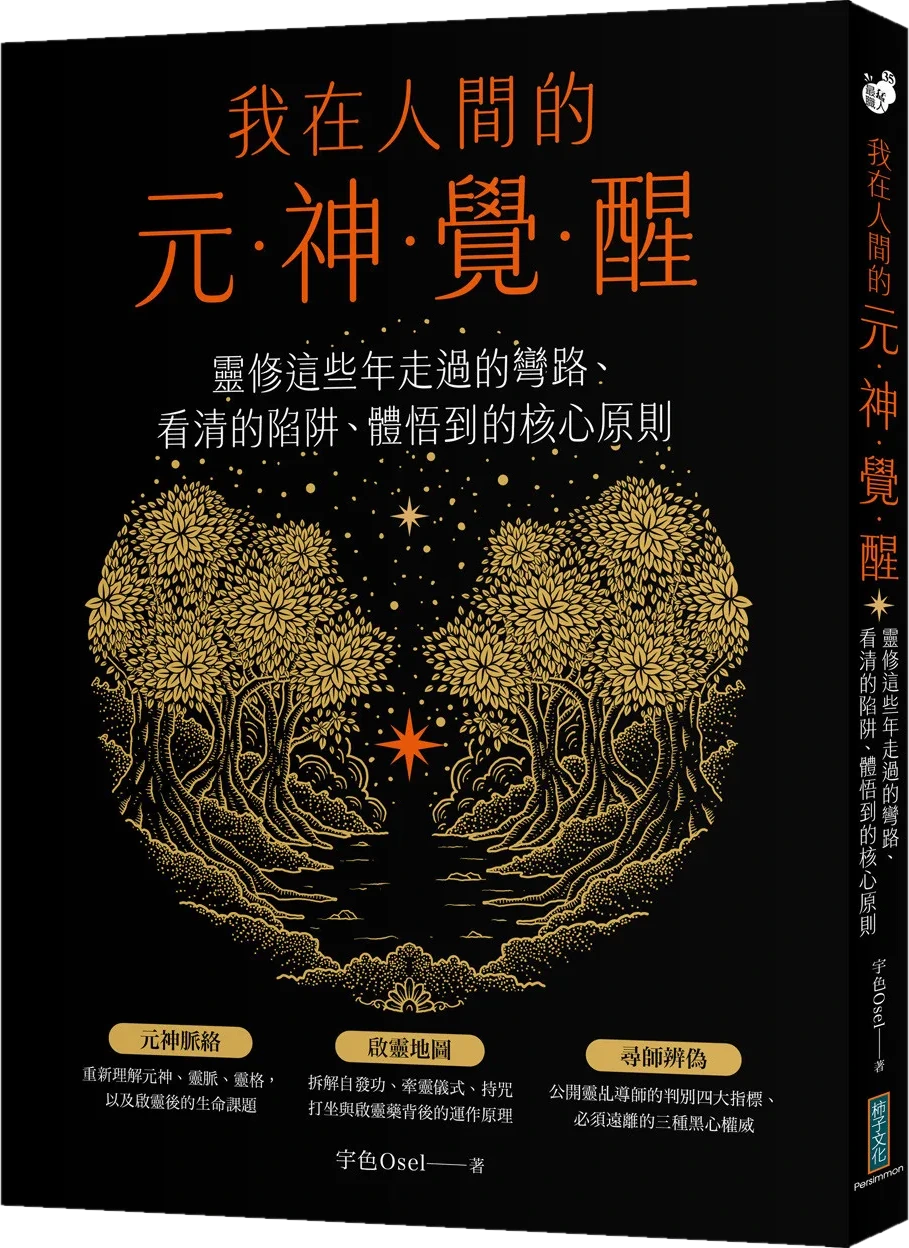
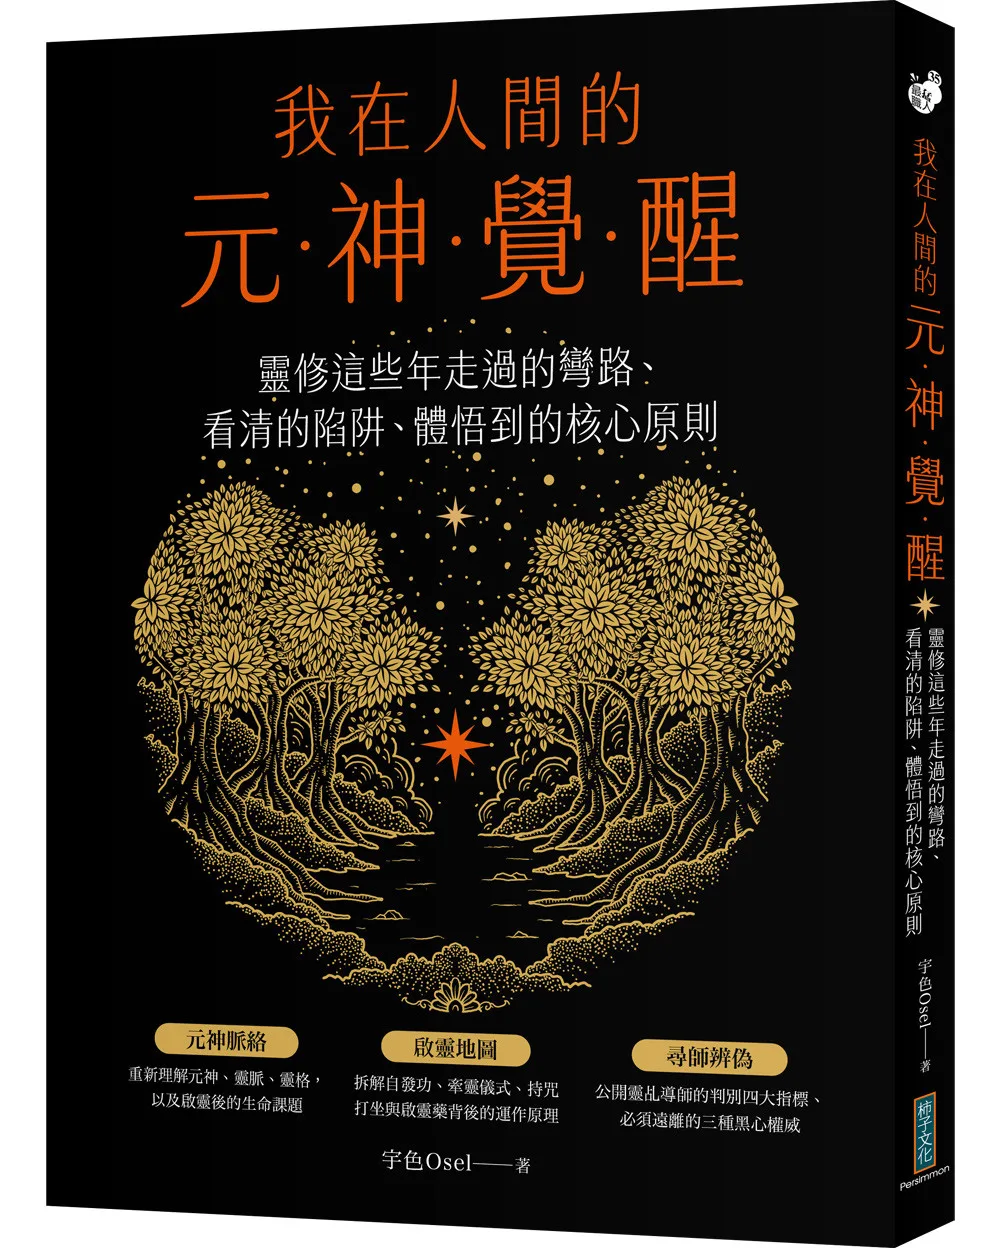
《元神覺醒》去白框版改存為新檔，只用於系列講座頁，不影響其他課程頁
Claude-Session: https://claude.ai/code/session_01U6mfPGyQKSkHiZeGPBAgAa

diff --git a/courses/lecture-series.html b/courses/lecture-series.html
@@ -23,8 +23,8 @@
   <script src="/analytics-config.js"></script>
   <script src="/analytics.js" defer></script>
 <link rel="stylesheet" href="/course-contact.css?v=c394ffcd">
-<link rel="stylesheet" href="/site-footer.css?v=6152ecf0">
 <link rel="stylesheet" href="/course-rhythm.css?v=b30d9759">
+<link rel="stylesheet" href="/site-footer.css?v=6152ecf0">
 </head>
 <body class="lecture-series">
 <a class="skip-link" href="#main">跳至講座內容</a>
@@ -272,7 +272,7 @@
 <section class="section reading" id="books" aria-labelledby="books-title">
   <div class="rd-wrap">
     <h2 id="books-title">延伸閱讀</h2>
-    <ul class="rd-shelf"><li><a class="rd-book" href="https://www.books.com.tw/products/0010784866" target="_blank" rel="noopener noreferrer"><img src="/assets/course-book-key-report.webp" alt="宇色著作《靈修人關鍵報告》書封" loading="lazy"><span class="rd-title">《靈修人關鍵報告》</span><span class="rd-go">查看書籍介紹 ↗</span></a></li><li><a class="rd-book" href="https://www.books.com.tw/products/0010719221" target="_blank" rel="noopener noreferrer"><img src="/assets/course-book-mizang.webp" alt="宇色著作《我在人間的靈修迷藏》書封" loading="lazy"><span class="rd-title">《我在人間的靈修迷藏》</span><span class="rd-go">查看書籍介紹 ↗</span></a></li><li><a class="rd-book" href="https://www.books.com.tw/products/0011060075" target="_blank" rel="noopener noreferrer"><img src="/assets/course-book-yuanshen.webp" alt="宇色著作《我在人間的元神覺醒》書封" loading="lazy"><span class="rd-title">《我在人間的元神覺醒》</span><span class="rd-go">查看書籍介紹 ↗</span></a></li><li><a class="rd-book" href="https://www.books.com.tw/products/0010963646" target="_blank" rel="noopener noreferrer"><img src="/assets/course-book-lingyuan-journey.png" alt="宇色著作《靈修人的奇幻旅程》書封" loading="lazy"><span class="rd-title">《靈修人的奇幻旅程》</span><span class="rd-go">查看書籍介紹 ↗</span></a></li></ul>
+    <ul class="rd-shelf"><li><a class="rd-book" href="https://www.books.com.tw/products/0010784866" target="_blank" rel="noopener noreferrer"><img src="/assets/course-book-key-report.webp" alt="宇色著作《靈修人關鍵報告》書封" loading="lazy"><span class="rd-title">《靈修人關鍵報告》</span><span class="rd-go">查看書籍介紹 ↗</span></a></li><li><a class="rd-book" href="https://www.books.com.tw/products/0010719221" target="_blank" rel="noopener noreferrer"><img src="/assets/course-book-mizang.webp" alt="宇色著作《我在人間的靈修迷藏》書封" loading="lazy"><span class="rd-title">《我在人間的靈修迷藏》</span><span class="rd-go">查看書籍介紹 ↗</span></a></li><li><a class="rd-book" href="https://www.books.com.tw/products/0011060075" target="_blank" rel="noopener noreferrer"><img src="/assets/course-book-yuanshen-clean.webp" alt="宇色著作《我在人間的元神覺醒》書封" loading="lazy"><span class="rd-title">《我在人間的元神覺醒》</span><span class="rd-go">查看書籍介紹 ↗</span></a></li><li><a class="rd-book" href="https://www.books.com.tw/products/0010963646" target="_blank" rel="noopener noreferrer"><img src="/assets/course-book-lingyuan-journey.png" alt="宇色著作《靈修人的奇幻旅程》書封" loading="lazy"><span class="rd-title">《靈修人的奇幻旅程》</span><span class="rd-go">查看書籍介紹 ↗</span></a></li></ul>
     <p class="rd-more"><a href="/books.html">宇色靈修著作</a></p>
   </div>
 </section>
